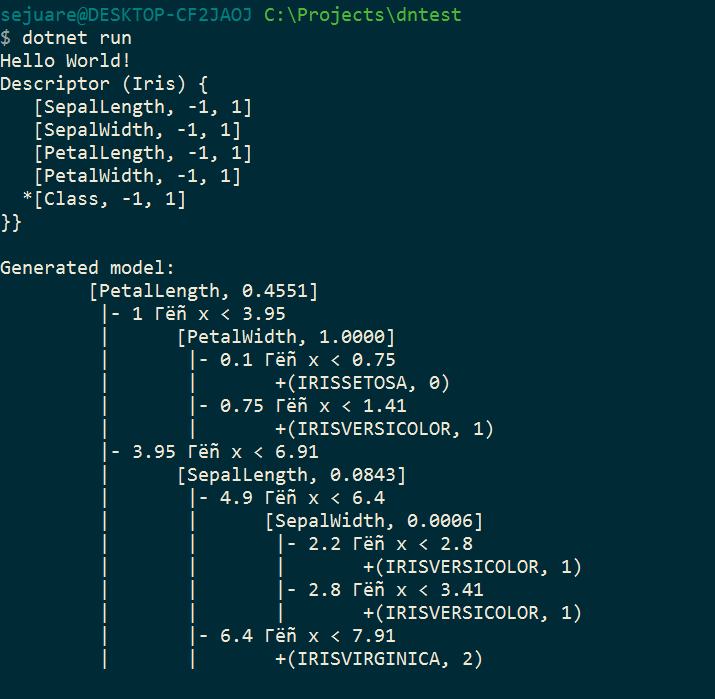
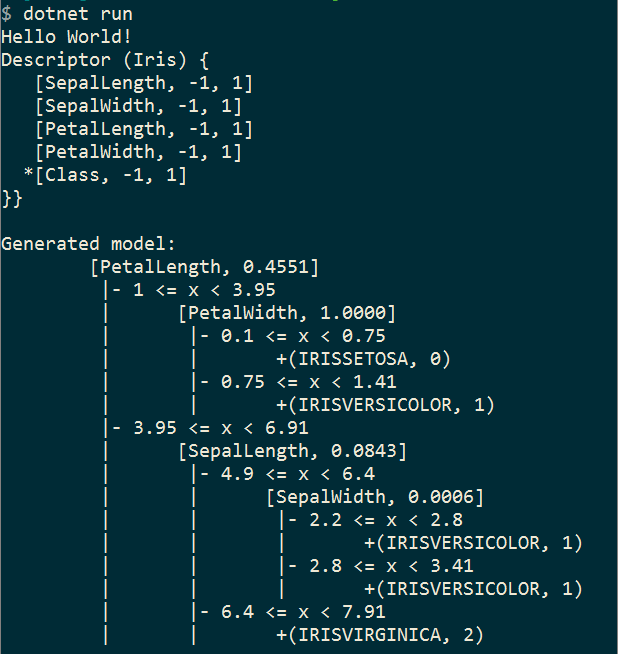
docs correction as well as console output descriptor fix

Changed region(s): [[0.0, 0.0, 0.9531, 0.9786], [0.7379, 0.948, 0.7994, 0.9786], [0.7686, 0.6116, 0.7994, 0.6422]]

diff --git a/Src/numl/Model/Descriptor.cs b/Src/numl/Model/Descriptor.cs
@@ -254,16 +254,17 @@ namespace numl.Model
             if (Label != null)
                 sb.AppendLine($"  *{Label}");
 
-            sb.AppendLine("}}");
+            sb.AppendLine("}");
             return sb.ToString();
         }
 
         //---- Creational
-        /// <summary>Creates a descriptor based upon a marked up concrete class.</summary>
-        /// <tparam name="T">Generic type parameter.</tparam>
+
+        /// <summary>
+        /// Creates a descriptor based upon a marked up concrete class.
+        /// </summary>
+        /// <typeparam name="T"></typeparam>
         /// <returns>Descriptor.</returns>
-        ///
-        /// ### <typeparam name="T">Class Type.</typeparam>
         public static Descriptor Create<T>()
             where T : class
         {
@@ -345,35 +346,38 @@ namespace numl.Model
         {
             return new Descriptor() { Type = type, Features = new Property[] { } };
         }
+
         /// <summary>
         /// Creates a new descriptor using a strongly typed fluent approach. This initial descriptor is
         /// worthless without adding features.
         /// </summary>
-        /// <tparam name="T">Generic type parameter.</tparam>
-        /// <returns>Empty Descriptor.</returns>
-        ///
-        /// ### <typeparam name="T">Source Object Type.</typeparam>
+        /// <typeparam name="T">Source Object Type</typeparam>
+        /// <returns>Empty descriptor</returns>
         public static Descriptor<T> For<T>()
         {
             return new Descriptor<T>() { Type = typeof(T), Features = new Property[] { } };
         }
+
+
+
         /// <summary>
         /// Creates a new descriptor using a strongly typed fluent approach. This initial descriptor is
         /// worthless without adding features.
         /// </summary>
-        /// <tparam name="T">Generic type parameter.</tparam>
+        /// <typeparam name="T">Source Object Type</typeparam>
         /// <param name="name">Desired Descriptor Name.</param>
-        /// <returns>Empty Descriptor.</returns>
-        ///
-        /// ### <typeparam name="T">Source Object Type.</typeparam>
+        /// <returns>Empty descriptor</returns>
         public static Descriptor<T> For<T>(string name)
         {
             return new Descriptor<T>() { Name = name, Type = typeof(T), Features = new Property[] { } };
         }
 
-        /// <summary>Load a descriptor from a stream.</summary>
+        /// <summary>
+        /// Load a descriptor from a stream.
+        /// </summary>
         /// <param name="stream">Stream.</param>
         /// <returns>Descriptor.</returns>
+        /// <exception cref="System.NotImplementedException"></exception>
         public static Descriptor Load(Stream stream)
         {
             throw new NotImplementedException();
@@ -398,7 +402,6 @@ namespace numl.Model
         /// </summary>
         /// <param name="obj">object to compare</param>
         /// <returns>equality</returns>
-
         public override bool Equals(object obj)
         {
             if (obj is Descriptor)
@@ -439,8 +442,11 @@ namespace numl.Model
         }
     }
 
-    /// <summary>A descriptor.</summary>
-    /// <tparam name="T">Generic type parameter.</tparam>
+
+    /// <summary>
+    /// Class Descriptor.
+    /// </summary>
+    /// <typeparam name="T"></typeparam>
     public class Descriptor<T> : Descriptor
     {
         /// <summary>Initializes a new instance of the Descriptor class.</summary>

diff --git a/Docs/getting-started/index.md b/Docs/getting-started/index.md
@@ -36,14 +36,14 @@ There are several links for installing the bits depending on your OS.
 
     "dependencies": {
         "Microsoft.NETCore.Runtime": "1.0.1-beta-*",
-        "System.IO": "4.0.11-*",
+        "System.IO": "4.0.11-beta-*",
         "System.Console": "4.0.0-*",
         "System.Runtime": "4.0.21-beta-*",
         "System.Reflection.TypeExtensions": "4.1.0-*",
         "System.Linq": "4.0.1-*",
         "System.Collections.Concurrent": "4.0.11-*",
         "System.Linq.Expressions": "4.0.11-*",
-        "numl": "0.9.7-beta"
+        "numl": "0.9.8-*"
     },
 
     "frameworks": {
@@ -59,7 +59,7 @@ These were lines added:
         "System.Linq": "4.0.1-*",
         "System.Collections.Concurrent": "4.0.11-*",
         "System.Linq.Expressions": "4.0.11-*",
-        "numl": "0.9.7-beta"
+        "numl": "0.9.8-*"
 ```
 
 If you are using Visual Studio Code, as soon as you make the changes to the
